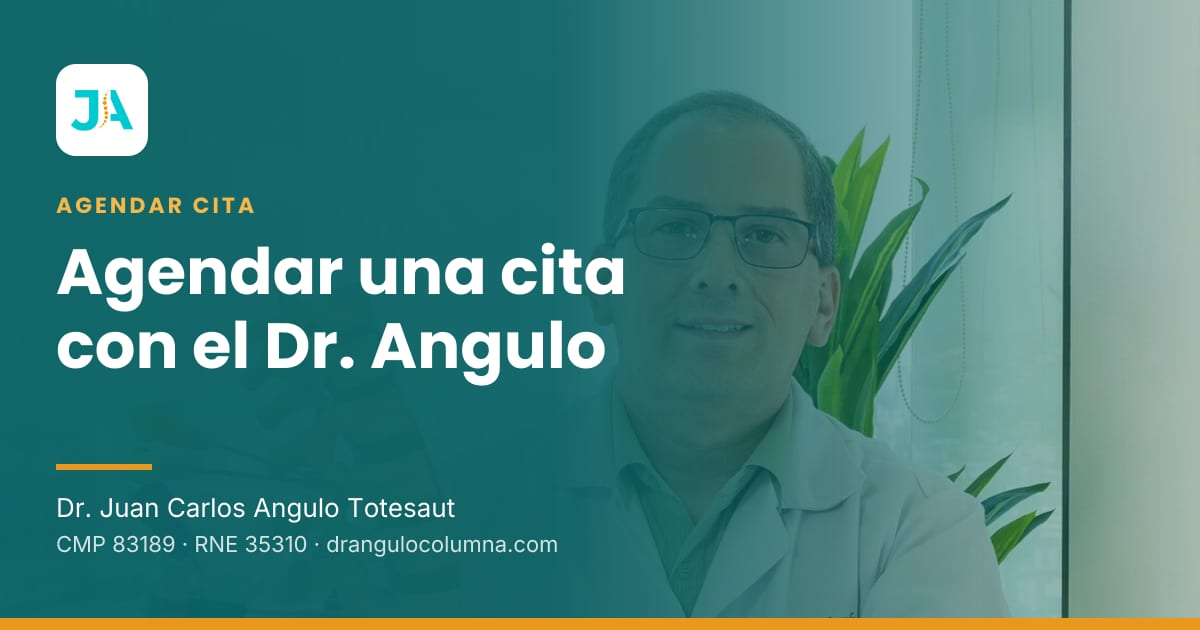
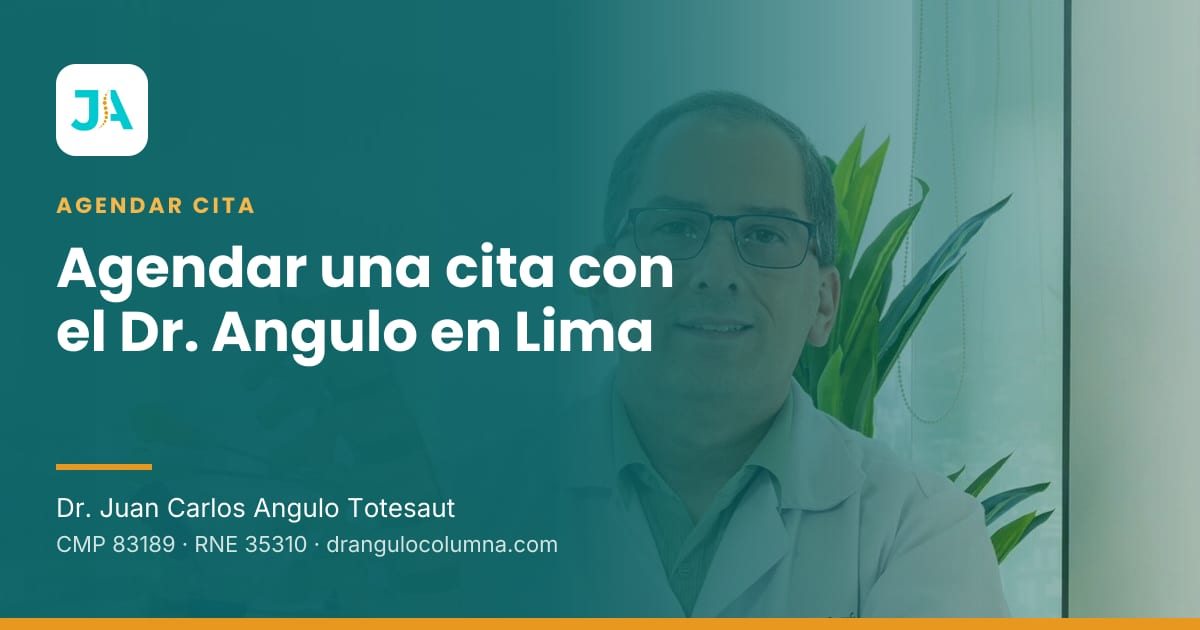
Audit SEO 2026-10-26: lockfile para npm 10, title, schema y UI móvil (#25)

Changed region(s): [[0.0308, 0.3921, 0.5858, 0.6333]]

diff --git a/src/components/layout/header.tsx b/src/components/layout/header.tsx
@@ -76,7 +76,7 @@ export function Header() {
       <div className="mx-auto flex h-18 max-w-6xl items-center justify-between px-4 py-3 sm:px-6">
         <Link
           href="/"
-          className="flex shrink-0 items-center gap-3"
+          className="flex min-w-0 shrink items-center gap-2 sm:gap-3"
           onClick={() => setOpen(false)}
         >
           <Image
@@ -84,11 +84,11 @@ export function Header() {
             alt=""
             width={44}
             height={44}
-            className="shrink-0 rounded-full"
+            className="size-10 shrink-0 rounded-full sm:size-11"
             preload
           />
           <span className="flex flex-col leading-tight">
-            <span className="whitespace-nowrap font-heading text-base font-bold text-primary sm:text-lg">
+            <span className="whitespace-nowrap font-heading text-[0.9375rem] font-bold text-primary min-[400px]:text-base sm:text-lg">
               {siteConfig.shortName}
             </span>
             <span className="whitespace-nowrap text-xs text-foreground/70 sm:text-sm">
@@ -128,17 +128,28 @@ export function Header() {
           </BookingCta>
         </div>
 
-        <button
-          ref={toggleRef}
-          type="button"
-          onClick={() => setOpen((v) => !v)}
-          aria-label={open ? "Cerrar menú" : "Abrir menú"}
-          aria-expanded={open}
-          aria-controls={MOBILE_NAV_ID}
-          className="flex size-11 shrink-0 cursor-pointer items-center justify-center rounded-lg text-primary transition-colors duration-150 hover:bg-muted xl:hidden"
-        >
-          {open ? <X className="size-6" /> : <Menu className="size-6" />}
-        </button>
+        {/* En móvil el CTA vive en la barra: antes solo existía en el menú
+            desplegado y en el hero, y el aviso de cookies tapaba el del hero. */}
+        <div className="flex shrink-0 items-center gap-1 xl:hidden">
+          <BookingCta
+            size="sm"
+            className="whitespace-nowrap px-2.5 sm:px-3"
+            onClick={() => setOpen(false)}
+          >
+            Agendar<span className="sr-only"> cita</span>
+          </BookingCta>
+          <button
+            ref={toggleRef}
+            type="button"
+            onClick={() => setOpen((v) => !v)}
+            aria-label={open ? "Cerrar menú" : "Abrir menú"}
+            aria-expanded={open}
+            aria-controls={MOBILE_NAV_ID}
+            className="flex size-11 shrink-0 cursor-pointer items-center justify-center rounded-lg text-primary transition-colors duration-150 hover:bg-muted"
+          >
+            {open ? <X className="size-6" /> : <Menu className="size-6" />}
+          </button>
+        </div>
       </div>
 
       {open && (

diff --git a/src/app/testimonios/page.tsx b/src/app/testimonios/page.tsx
@@ -4,18 +4,18 @@ import { ArrowRight } from "lucide-react";
 import { InstagramReelsSection } from "@/components/instagram/instagram-reels-section";
 import { BookingCta } from "@/components/ui/booking-cta";
 import { testimonials, reviewLinks } from "@/content/testimonials";
-import { BreadcrumbJsonLd } from "@/components/structured-data";
+import { BreadcrumbJsonLd, WebPageJsonLd } from "@/components/structured-data";
 import { GoogleReviewsSection } from "@/components/reviews/google-reviews";
 
 export const metadata: Metadata = {
-  title: { absolute: "Testimonios de pacientes del Dr. Angulo" },
+  title: { absolute: "Testimonios de pacientes del Dr. Angulo en Lima" },
   description:
-    "Lo que cuentan, en sus propias palabras, los pacientes que se atendieron con el Dr. Juan Carlos Angulo en Lima.",
+    "Lo que cuentan, en sus propias palabras, los pacientes que se atendieron con el Dr. Juan Carlos Angulo, traumatólogo y cirujano de columna en Lima.",
   alternates: { canonical: "/testimonios" },
   openGraph: {
-    title: "Testimonios de pacientes del Dr. Angulo",
+    title: "Testimonios de pacientes del Dr. Angulo en Lima",
     description:
-      "Lo que cuentan, en sus propias palabras, los pacientes que se atendieron con el Dr. Juan Carlos Angulo en Lima.",
+      "Lo que cuentan, en sus propias palabras, los pacientes que se atendieron con el Dr. Juan Carlos Angulo, traumatólogo y cirujano de columna en Lima.",
     url: "/testimonios",
   },
 };
@@ -27,6 +27,10 @@ export default async function TestimoniosPage() {
   return (
     <>
       <BreadcrumbJsonLd items={[{ name: "Testimonios", path: "/testimonios" }]} />
+      <WebPageJsonLd
+        path="/testimonios"
+        name="Testimonios de pacientes del Dr. Angulo en Lima"
+      />
     <div className="mx-auto max-w-3xl px-4 py-14 sm:px-6 sm:py-20">
       <h1 className="font-heading text-3xl font-extrabold text-primary sm:text-4xl">
         Lo que dicen sus pacientes

diff --git a/src/components/structured-data.tsx b/src/components/structured-data.tsx
@@ -51,6 +51,8 @@ function abs(path: string) {
 const MEDICAL_SPECIALTIES = [
   "https://schema.org/Musculoskeletal",
   "https://schema.org/Surgical",
+  // La consulta incluye ortopedia infantil, que `knowsAbout` ya declara.
+  "https://schema.org/Pediatric",
 ];
 
 /**
@@ -487,6 +489,38 @@ export function SedeJsonLd({
   };
 
   return <JsonLdScript id="sede-jsonld" data={data} />;
+}
+
+/**
+ * Nodo de página para las rutas que solo llevaban `BreadcrumbList`: la portada,
+ * `/sedes`, `/testimonios` y `/preguntas-frecuentes`. Sin él, el buscador tiene
+ * la miga de pan pero ningún `WebPage` al que atar la entidad del doctor.
+ *
+ * `/sedes` es un listado, así que usa `CollectionPage`; el resto, `WebPage`.
+ * No lleva `Review` ni `AggregateRating`: las reseñas de esta web son de
+ * terceros y marcarlas en el propio sitio no es elegible.
+ */
+export function WebPageJsonLd({
+  path,
+  name,
+  type = "WebPage",
+}: {
+  path: string;
+  name: string;
+  type?: "WebPage" | "CollectionPage";
+}) {
+  const data = {
+    "@context": "https://schema.org",
+    "@type": type,
+    "@id": abs(`${path === "/" ? "" : path}#page`),
+    url: abs(path),
+    name,
+    inLanguage: "es-PE",
+    isPartOf: { "@id": ID.website },
+    about: { "@id": ID.physician },
+  };
+
+  return <JsonLdScript id="pagina-jsonld" data={data} />;
 }
 
 /** Página de contacto. */

diff --git a/src/components/layout/whatsapp-float-button.tsx b/src/components/layout/whatsapp-float-button.tsx
@@ -30,11 +30,13 @@ export function WhatsAppFloatButton() {
       aria-label="Escribir por WhatsApp (se abre en una pestaña nueva)"
       className={cn(
         // Entra sin transform: el fill de la animación pisaría el hover:scale.
-        "animate-fade-in animate-delay-late fixed right-5 z-50 flex size-14 cursor-pointer items-center justify-center rounded-full bg-whatsapp text-white shadow-lg transition-[transform,bottom] duration-200 ease-out hover:scale-105 motion-reduce:hover:scale-100",
-        bannerVisible ? "bottom-44 sm:bottom-28" : "bottom-5"
+        // En móvil la burbuja mide 48px (por encima del mínimo táctil de 44) para
+        // tapar menos texto; desde `sm` vuelve a los 56px de siempre.
+        "animate-fade-in animate-delay-late fixed right-4 z-50 flex size-12 cursor-pointer items-center justify-center rounded-full bg-whatsapp text-white shadow-lg transition-[transform,bottom] duration-200 ease-out hover:scale-105 motion-reduce:hover:scale-100 sm:right-5 sm:size-14",
+        bannerVisible ? "bottom-40 sm:bottom-28" : "bottom-4 sm:bottom-5"
       )}
     >
-      <MessageCircle className="size-7" aria-hidden="true" />
+      <MessageCircle className="size-6 sm:size-7" aria-hidden="true" />
     </a>
   );
 }

diff --git a/src/components/cookie-consent-banner.tsx b/src/components/cookie-consent-banner.tsx
@@ -22,10 +22,10 @@ export function CookieConsentBanner() {
     <div
       role="region"
       aria-label="Aviso de cookies"
-      className="animate-slide-up-in fixed inset-x-0 bottom-0 z-50 border-t border-border bg-background px-4 py-4 shadow-xl sm:px-6"
+      className="animate-slide-up-in fixed inset-x-0 bottom-0 z-50 border-t border-border bg-background px-4 pb-[max(0.75rem,env(safe-area-inset-bottom))] pt-3 shadow-xl sm:px-6 sm:py-4"
     >
-      <div className="mx-auto flex max-w-6xl flex-col gap-3 sm:flex-row sm:items-center sm:justify-between">
-        <p className="text-sm text-foreground/80">
+      <div className="mx-auto flex max-w-6xl flex-col gap-2 sm:flex-row sm:items-center sm:justify-between sm:gap-3">
+        <p className="text-sm leading-snug text-foreground/80">
           Usamos cookies para medir visitas y mejorar la web (Google Analytics y Meta).
           Puedes leer más en nuestra{" "}
           <Link href="/privacidad" className="underline hover:text-primary">

diff --git a/src/app/page.tsx b/src/app/page.tsx
@@ -17,9 +17,10 @@ import { faqItems } from "@/content/faq";
 import { reviewLinks } from "@/content/testimonials";
 import { siteConfig } from "@/lib/site-config";
 import { GoogleReviewsSection } from "@/components/reviews/google-reviews";
+import { WebPageJsonLd } from "@/components/structured-data";
 
 export const metadata: Metadata = {
-  title: { absolute: "Traumatología en Lima: Dr. Juan Carlos Angulo" },
+  title: { absolute: "Traumatólogo y cirujano de columna en Lima | Dr. Angulo" },
   description:
     "Traumatólogo y cirujano de columna en Lima. Atiende en su consultorio de Surco, Ricardo Palma, Sanna La Molina y Clínica Tezza.",
   alternates: { canonical: "/" },
@@ -31,6 +32,7 @@ export const revalidate = 3600;
 export default async function Home() {
   return (
     <>
+      <WebPageJsonLd path="/" name="Traumatólogo y cirujano de columna en Lima" />
       <section className="relative overflow-hidden bg-primary">
         <div
           aria-hidden="true"

diff --git a/src/app/sobre-el-doctor/page.tsx b/src/app/sobre-el-doctor/page.tsx
@@ -10,12 +10,12 @@ import { BreadcrumbJsonLd, ProfilePageJsonLd } from "@/components/structured-dat
 export const metadata: Metadata = {
   title: { absolute: "Sobre el Dr. Juan Carlos Angulo Totesaut" },
   description:
-    "Formación, forma de trabajo y sedes donde atiende el Dr. Juan Carlos Angulo Totesaut, médico de columna en Lima.",
+    "Formación, forma de trabajo y sedes donde atiende el Dr. Juan Carlos Angulo Totesaut, traumatólogo y cirujano de columna en Lima. CMP 83189.",
   alternates: { canonical: "/sobre-el-doctor" },
   openGraph: {
     title: "Sobre el Dr. Juan Carlos Angulo Totesaut",
     description:
-      "Formación, forma de trabajo y sedes donde atiende el Dr. Juan Carlos Angulo Totesaut, médico de columna en Lima.",
+      "Formación, forma de trabajo y sedes donde atiende el Dr. Juan Carlos Angulo Totesaut, traumatólogo y cirujano de columna en Lima. CMP 83189.",
     url: "/sobre-el-doctor",
   },
 };

diff --git a/src/app/sedes/page.tsx b/src/app/sedes/page.tsx
@@ -3,7 +3,7 @@ import Link from "next/link";
 import { BookingCta } from "@/components/ui/booking-cta";
 import { SedeCard } from "@/components/locations/sede-card";
 import { getLocationPage, locationPages } from "@/content/location-pages";
-import { BreadcrumbJsonLd } from "@/components/structured-data";
+import { BreadcrumbJsonLd, WebPageJsonLd } from "@/components/structured-data";
 import {
   ContentBody,
   ContentBodyBoundary,
@@ -32,6 +32,11 @@ export default function SedesPage() {
   return (
     <>
       <BreadcrumbJsonLd items={[{ name: "Sedes", path: "/sedes" }]} />
+      <WebPageJsonLd
+        path="/sedes"
+        name="Sedes donde atiende el Dr. Angulo en Lima"
+        type="CollectionPage"
+      />
       <div className="mx-auto max-w-4xl px-4 py-14 sm:px-6 sm:py-20">
         <h1 className="font-heading text-3xl font-extrabold text-primary sm:text-4xl">
           Sedes donde atiende el Dr. Angulo en Lima

diff --git a/src/app/contacto/page.tsx b/src/app/contacto/page.tsx
@@ -9,12 +9,12 @@ import { BreadcrumbJsonLd, ContactPageJsonLd } from "@/components/structured-dat
 export const metadata: Metadata = {
   title: { absolute: "Contacto con el consultorio del Dr. Angulo" },
   description:
-    "Cuéntale tu caso al doctor por el formulario o escribe por WhatsApp. Datos de contacto del consultorio en Lima.",
+    "Cuéntale tu caso al doctor por el formulario o escribe por WhatsApp. Dirección, teléfono y sedes del consultorio del Dr. Angulo en Lima.",
   alternates: { canonical: "/contacto" },
   openGraph: {
     title: "Contacto con el consultorio del Dr. Angulo",
     description:
-      "Cuéntale tu caso al doctor por el formulario o escribe por WhatsApp. Datos de contacto del consultorio en Lima.",
+      "Cuéntale tu caso al doctor por el formulario o escribe por WhatsApp. Dirección, teléfono y sedes del consultorio del Dr. Angulo en Lima.",
     url: "/contacto",
   },
 };

diff --git a/next.config.ts b/next.config.ts
@@ -27,6 +27,8 @@ const CSP_REPORT_ONLY = [
 ].join("; ");
 
 const nextConfig: NextConfig = {
+  // Sin `x-powered-by: Next.js`: no aporta nada al visitante y anuncia el stack.
+  poweredByHeader: false,
   images: {
     // Portadas de los reels: Instagram las sirve desde su CDN con URLs firmadas
     // que caducan, por eso el feed se revalida cada hora.
@@ -108,6 +110,9 @@ const nextConfig: NextConfig = {
   },
   async redirects() {
     return [
+      // Algunos clientes piden `/favicon.ico` por defecto aunque el HTML declare
+      // `/icon.png`; sin esto cada pedido deja un 404 en los registros.
+      { source: "/favicon.ico", destination: "/icon.png", permanent: false },
       // Renombre decidido en la fase 14 de v1.2: la guía pasó de /servicios/escoliosis
       // a /servicios/escoliosis-y-deformidades y la URL vieja ya estaba indexada.
       {

diff --git a/src/app/preguntas-frecuentes/page.tsx b/src/app/preguntas-frecuentes/page.tsx
@@ -12,7 +12,11 @@ import {
   ContentBodyBoundary,
   groupSections,
 } from "@/components/content/content-body";
-import { BreadcrumbJsonLd, FaqJsonLd } from "@/components/structured-data";
+import {
+  BreadcrumbJsonLd,
+  FaqJsonLd,
+  WebPageJsonLd,
+} from "@/components/structured-data";
 import { faqItems } from "@/content/faq";
 import { preguntasFrecuentesPage as page } from "@/content/static-pages/preguntas-frecuentes";
 
@@ -50,6 +54,10 @@ export default function PreguntasFrecuentesPage() {
     <>
       <BreadcrumbJsonLd
         items={[{ name: "Preguntas frecuentes", path: "/preguntas-frecuentes" }]}
+      />
+      <WebPageJsonLd
+        path="/preguntas-frecuentes"
+        name="Preguntas frecuentes sobre la consulta del Dr. Angulo"
       />
       <FaqJsonLd
         items={[...packageFaqItems, ...faqItems]}

diff --git a/src/app/agendar/page.tsx b/src/app/agendar/page.tsx
@@ -8,12 +8,12 @@ import { siteConfig } from "@/lib/site-config";
 import { BreadcrumbJsonLd, BookingPageJsonLd } from "@/components/structured-data";
 
 export const metadata: Metadata = {
-  title: { absolute: "Agendar una cita con el Dr. Angulo" },
+  title: { absolute: "Agendar una cita con el Dr. Angulo en Lima" },
   description:
     "Cómo pedir cita en cada sede: WhatsApp para el consultorio de Surco y la central de citas de Ricardo Palma, Sanna y Tezza.",
   alternates: { canonical: "/agendar" },
   openGraph: {
-    title: "Agendar una cita con el Dr. Angulo",
+    title: "Agendar una cita con el Dr. Angulo en Lima",
     description:
       "Cómo pedir cita en cada sede: WhatsApp para el consultorio de Surco y la central de citas de Ricardo Palma, Sanna y Tezza.",
     url: "/agendar",
